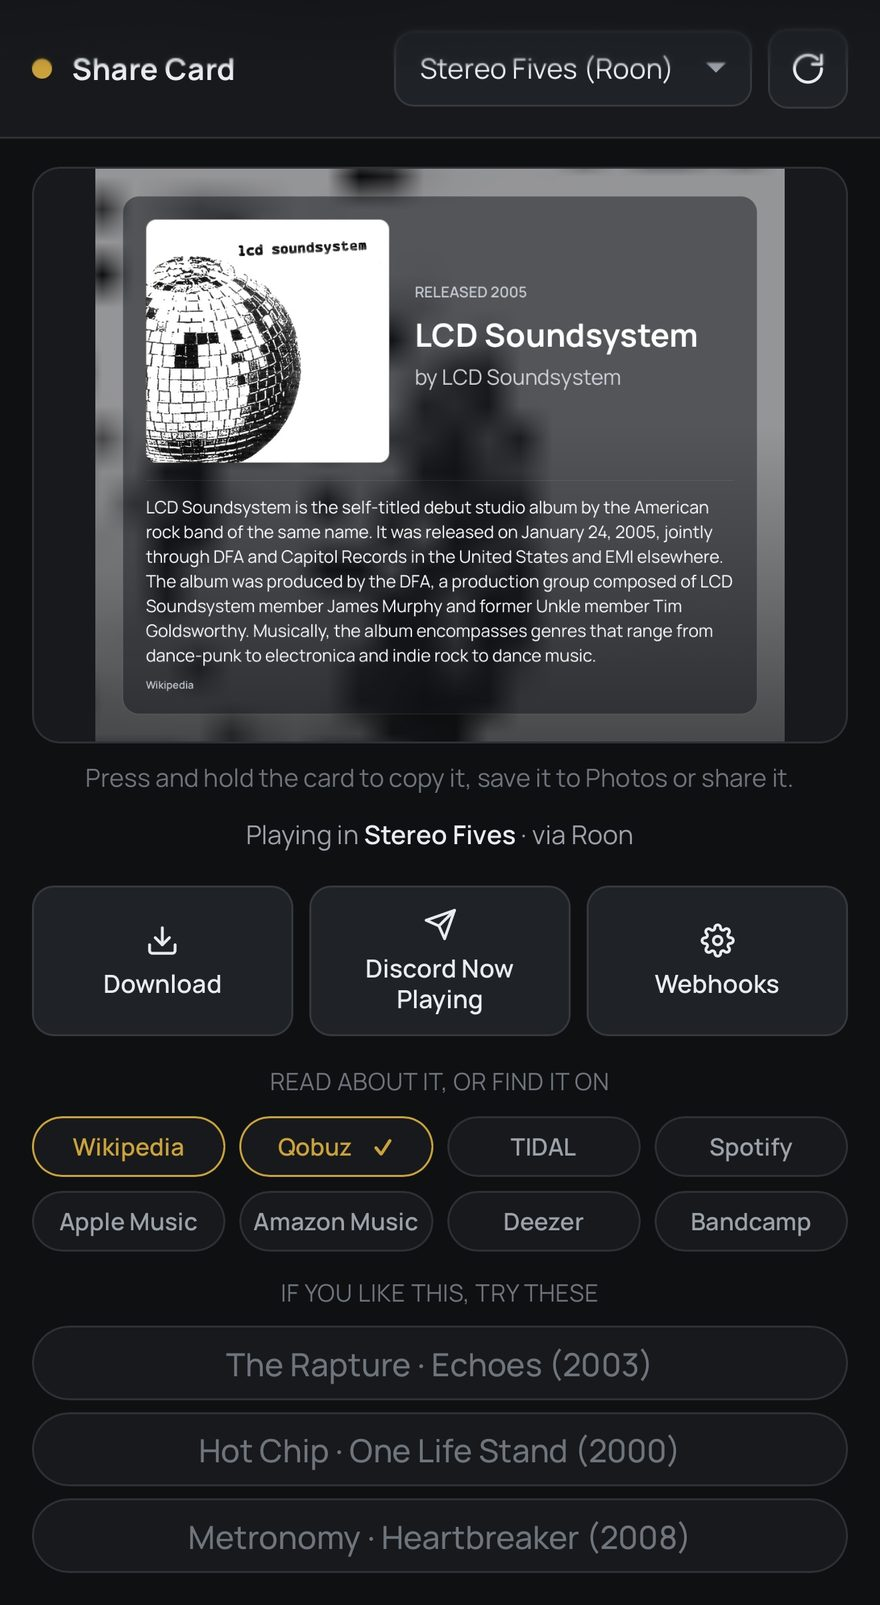
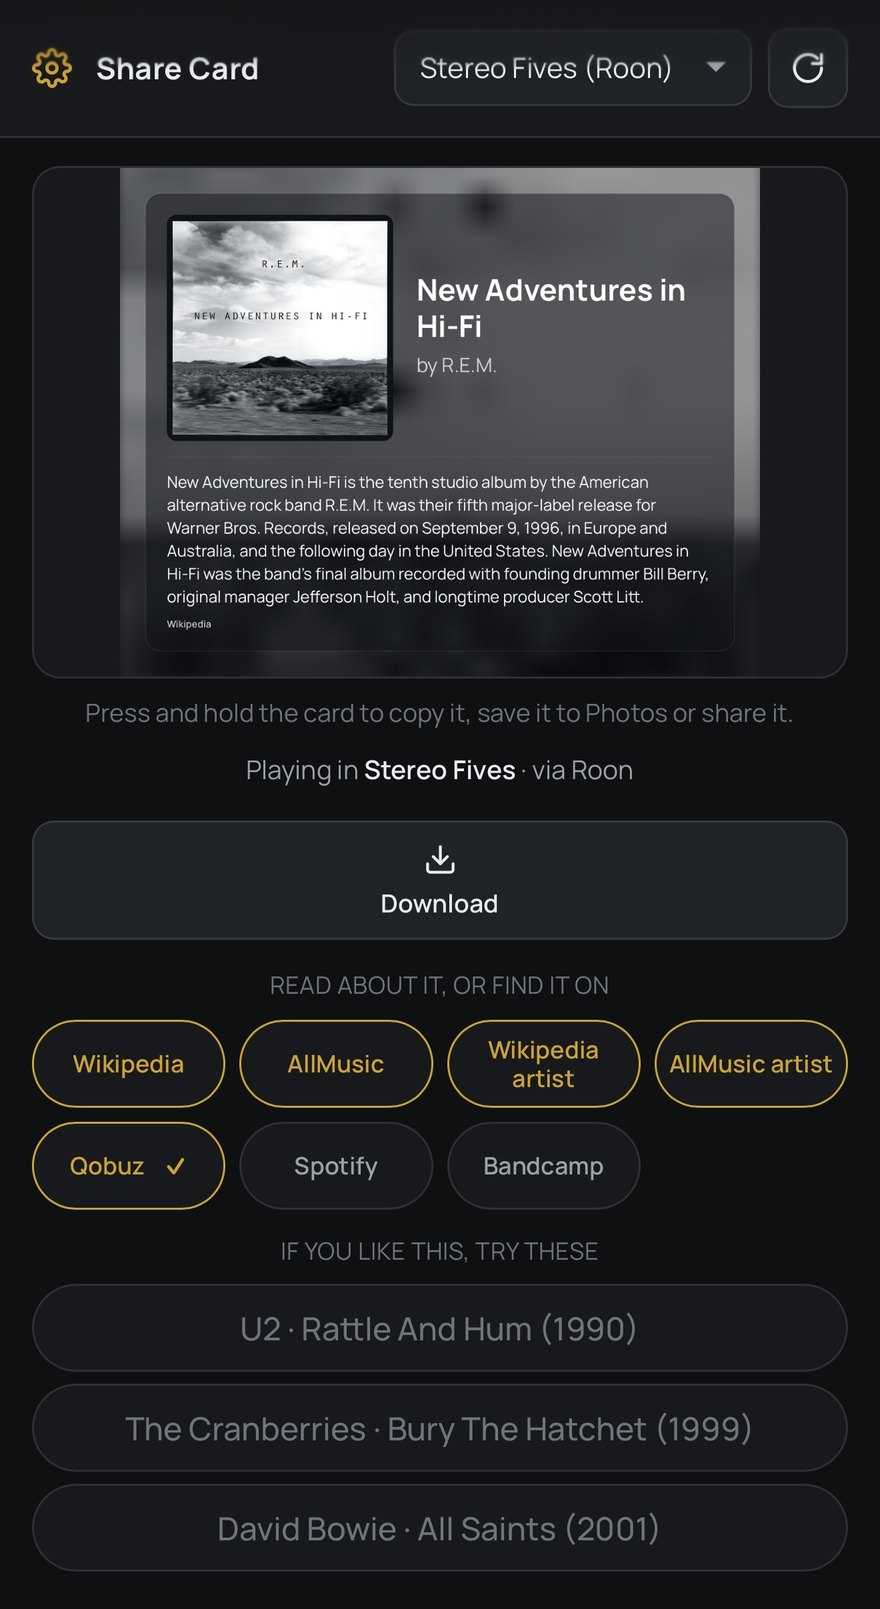
Current screenshots, and say that AllMusic and Wikipedia cover both
Five shots off the phone, into the README and the project page.

TWO OF THEM REPLACE SHOTS OF A UI THAT NO LONGER EXISTS. app.jpg had the
yellow dot where the cog is now, the old three-button action row with
"Discord Now Playing" and "Webhooks" in it, and a links row with no
AllMusic at all; zones.jpg had the same dot. A screenshot of a version
nobody is running is worse than none — it is the first thing somebody
compares their own screen against.

Three are new and are the part that was never shown: the settings menu
behind the cog, the Services switches, and the Reviews screen in its two
halves.

And the sources are named properly now, which was the other half of the
ask. The README opened by mentioning Wikipedia and Pitchfork and left
AllMusic to a bullet two hundred lines down; the project page's own
feature card named two of the three. Both now say it once at the top:
Wikipedia, Pitchfork and AllMusic about the RECORD, and — if you ask for
them — Wikipedia and AllMusic about the ARTIST. The Reviews section
explains why the halves default differently, and why the artist's
article costs no extra lookup: it was already being fetched to check the
description belongs to the right act.

Tested: the page rendered in a real browser at 1100px and at 400px. Every
image loads, both rows lay out three across and wrap to one column on a
phone, and the new figures are the right shapes — measured, not assumed.
[…]

diff --git a/docs/index.html b/docs/index.html
@@ -339,12 +339,26 @@
           <figcaption>More than one room on, so it asks rather than choosing.</figcaption>
         </figure>
         <figure>
-          <img src="screenshots/zones.jpg" alt="The room picker open, listing rooms from Roon, Sonos and UPnP together with the source named beside each">
+          <img src="screenshots/zones.jpg" alt="The room picker open, listing Whatever's playing and each room from Roon, Sonos and UPnP with the source named beside it">
           <figcaption>Every room, whichever source found it.</figcaption>
         </figure>
         <figure>
-          <img src="screenshots/app.jpg" alt="One room's card, with buttons to download it or post it to Discord, links to read about it or find it on a streaming service, and three suggestions">
+          <img src="screenshots/app.jpg" alt="One room's card, a Download button, one row of links — Wikipedia, AllMusic, Wikipedia artist, AllMusic artist, then the streaming services — and three suggestions">
           <figcaption>One screen: card, buttons, links, suggestions.</figcaption>
+        </figure>
+      </div>
+      <div class="row">
+        <figure>
+          <img src="screenshots/settings.jpg" alt="The settings menu: Services, Reviews, Zones and Webhooks">
+          <figcaption>Behind the cog: services, reviews, rooms and webhooks.</figcaption>
+        </figure>
+        <figure>
+          <img src="screenshots/services.jpg" alt="The Services screen: a switch for each of Qobuz, TIDAL, Spotify, Apple Music, Amazon Music, Deezer and Bandcamp">
+          <figcaption>Only the services you use, and the rest are never looked up.</figcaption>
+        </figure>
+        <figure>
+          <img src="screenshots/reviews.jpg" alt="The Reviews screen: About the record with Wikipedia, Pitchfork and AllMusic switched on, and About the artist with Wikipedia and AllMusic">
+          <figcaption>Wikipedia, Pitchfork and AllMusic about the record — and the same two about the artist.</figcaption>
         </figure>
       </div>
     </div>
@@ -359,8 +373,8 @@
         <p>Roon, Lyrion Music Server, Sonos, or any UPnP&nbsp;/&nbsp;DLNA renderer on the network. It
            asks whichever one actually knows what the record is.</p></div>
       <div class="card"><h3><span class="em">🖼</span>A card worth sending</h3>
-        <p>Cover, title, artist and release year, with a few lines about the record and a Pitchfork
-           score where there is one.</p></div>
+        <p>Cover, title, artist and release year, with a few lines about the record from Wikipedia
+           and a Pitchfork score where there is one.</p></div>
       <div class="card"><h3><span class="em">📤</span>Share it anywhere</h3>
         <p>The Android share sheet, press and hold on an iPhone, or a plain download on a
            desktop.</p></div>
@@ -368,8 +382,9 @@
         <p>Paste a webhook URL once and a button appears on the card. Tap it and the card is
            posted — under your own name and picture.</p></div>
       <div class="card"><h3><span class="em">🔗</span>Read it, or hear it</h3>
-        <p>The Wikipedia article and the Pitchfork review behind the card, then Qobuz, TIDAL,
-           Spotify, Apple Music, Amazon Music, Deezer and Bandcamp.</p></div>
+        <p>Wikipedia, Pitchfork and AllMusic about the record — and, if you ask, Wikipedia and
+           AllMusic about the artist too. Then Qobuz, TIDAL, Spotify, Apple Music, Amazon Music,
+           Deezer and Bandcamp.</p></div>
       <div class="card"><h3><span class="em">✨</span>If you like this</h3>
         <p>Three acts worth hearing next, an album each. Hold a service chip to pick where they
            link — no settings screen.</p></div>

diff --git a/README.md b/README.md
@@ -9,14 +9,18 @@ Makes a share card for whatever you're playing, and posts it wherever you want i
 ## What it does
 
 Open it and you get a card for the record that's on: cover, title, artist, year,
-a short description from Wikipedia and a Pitchfork score where there is one.
-Then share it, copy it, save it, or post it to Discord with a webhook.
+a short description from **Wikipedia** and a **Pitchfork** score where there is
+one. Then share it, copy it, save it, or post it to Discord with a webhook.
+
+Under the card it links out to what's been written about the record —
+**Wikipedia**, **Pitchfork** and **AllMusic** — and, if you ask for them, to the
+same two about the **artist**: their Wikipedia article and their AllMusic page.
 
 Everything fits one screen — card, buttons, links, suggestions — and the page
 does not scroll. The card stays put until you press **Refresh**; leaving the app
 and coming back does not throw it away.
 
-<img src="docs/screenshots/app.jpg" width="360" alt="The app: the card, the room it is playing in, and buttons to download it or post it to Discord">
+<img src="docs/screenshots/app.jpg" width="360" alt="The app: the card, the room it is playing in, a Download button, one row of links — Wikipedia, AllMusic, Wikipedia artist, AllMusic artist, then the streaming services — and three suggestions">
 
 It works out what's playing by asking whoever actually knows:
 
@@ -55,8 +59,13 @@ the gate. With it off, anyone who can reach the port can also change your
 webhooks — the URLs themselves are still never handed out, only changed.
 
 <p>
+  <img src="docs/screenshots/settings.jpg" width="330" alt="The settings menu: Services, Reviews, Zones and Webhooks">
+  <img src="docs/screenshots/services.jpg" width="330" alt="The Services screen: a switch for each of Qobuz, TIDAL, Spotify, Apple Music, Amazon Music, Deezer and Bandcamp">
+</p>
+
+<p>
   <img src="docs/screenshots/rooms.jpg" width="330" alt="Whatever's playing: a grid of album covers, one per room, with the rooms that are silent listed underneath">
-  <img src="docs/screenshots/zones.jpg" width="330" alt="The room picker open, listing rooms from Roon, Sonos and UPnP together with the source named beside each">
+  <img src="docs/screenshots/zones.jpg" width="330" alt="The room picker open, listing Whatever's playing and each room from Roon, Sonos and UPnP with the source named beside it">
 </p>
 
 ## Install
@@ -216,10 +225,22 @@ They're searches rather than links to the album itself — that needs each
 service's own id for the record, and their APIs need credentials. Qobuz is the
 exception: it resolves the real album and opens the app on it.
 
-**Settings → Reviews** decides which of those appear, and can add two more
-about the ARTIST rather than the record — their Wikipedia article and their
-AllMusic page. Those are off until you ask for them. Switching a source off
-stops it being looked up, not just drawn.
+**Settings → Reviews** decides which of those appear, and it is in two halves.
+
+*About the record* — **Wikipedia**, **Pitchfork** and **AllMusic** — is on by
+default, because that is what the card has always drawn: the description under
+the cover and the score in the corner. **AllMusic** joins them as a third place
+to read about the record.
+
+*About the artist* — their **Wikipedia** article and their **AllMusic** page —
+is off until you ask for it. These are links only: the card stays about the
+record, and the artist's article is one the app was already fetching to check
+the description belongs to the right act, so switching it on costs no extra
+lookup at all.
+
+Switching any source off stops it being looked up, not just drawn.
+
+<img src="docs/screenshots/reviews.jpg" width="360" alt="The Reviews screen: About the record with Wikipedia, Pitchfork and AllMusic switched on, and About the artist with Wikipedia and AllMusic">
 
 There's no Roon link. Roon has no web player and no link scheme — still an
 open feature request, not an oversight — so there's nothing a tap could go
